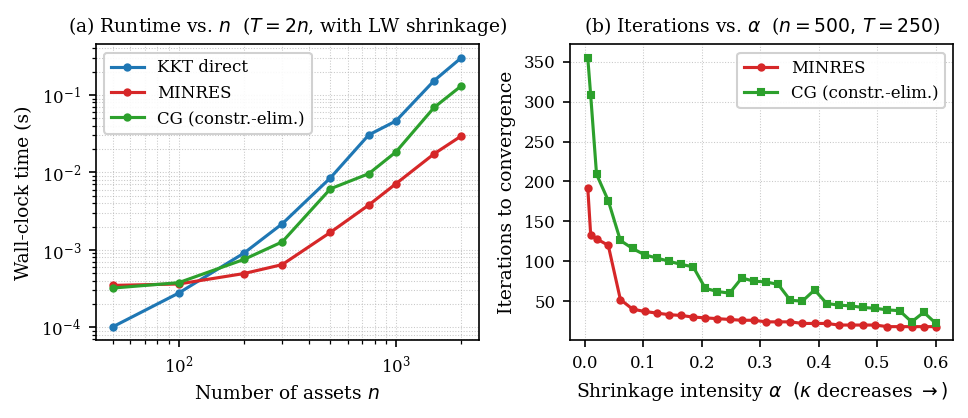
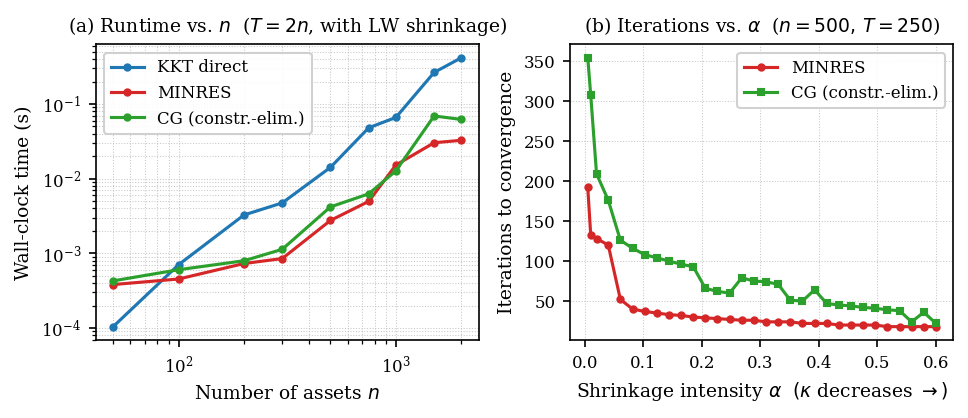
Add `MinVarProblem` to public API and update visualization assets
- Include `MinVarProblem` in `__all__` for `fast_minimum_variance` module exports.
- Update associated visualization files (`minvar_scaling.pdf`, `minvar_scaling.png`).

diff --git a/src/fast_minimum_variance/__init__.py b/src/fast_minimum_variance/__init__.py
@@ -1,5 +1,6 @@
 """fast_minimum_variance — fast solvers for the minimum-variance portfolio."""
 
+from .minvar_problem import MinVarProblem
 from .problem import Problem
 
-__all__ = ["Problem"]
+__all__ = ["MinVarProblem", "Problem"]
